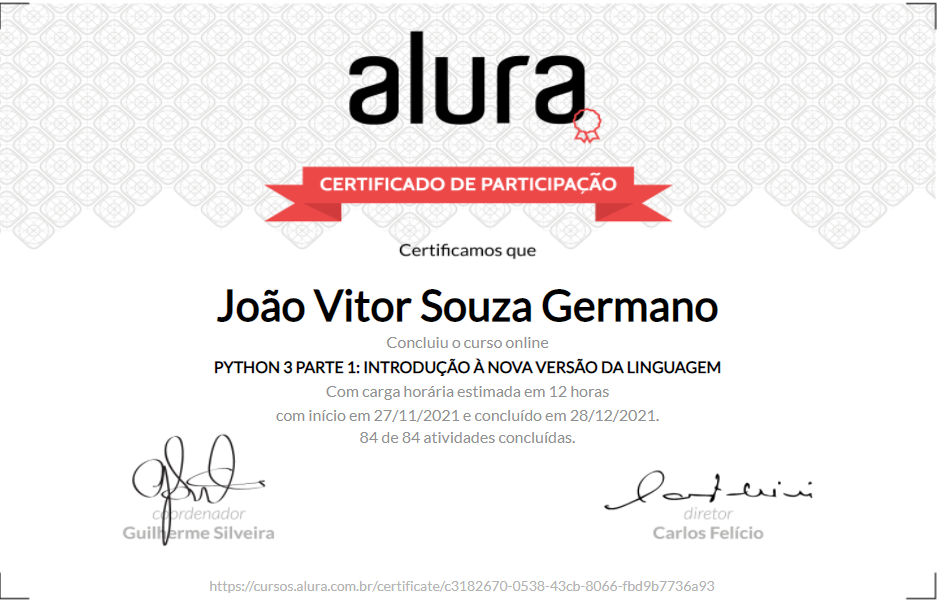
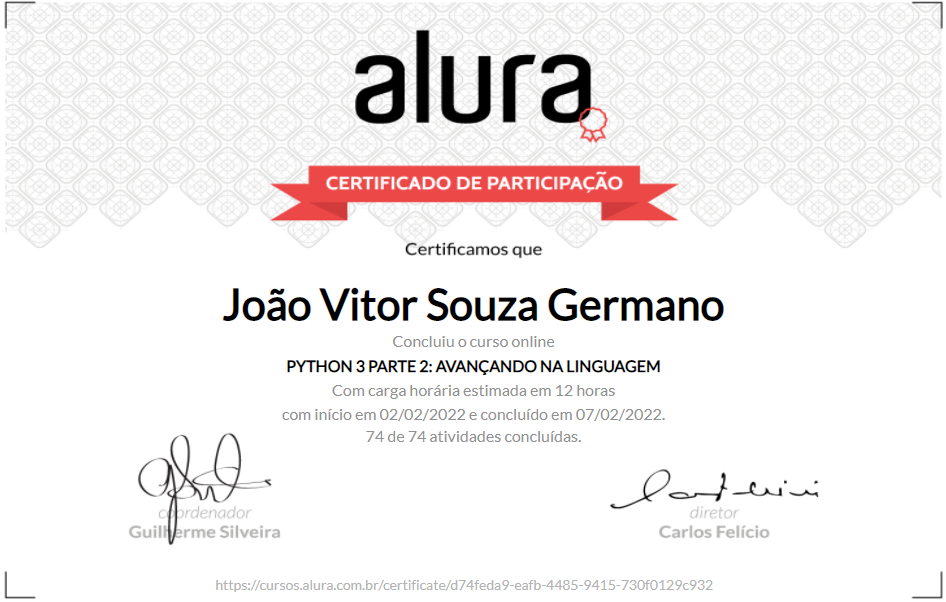
second part of the course

diff --git a/Python/Game/hangman.py b/Python/Game/hangman.py
@@ -1,37 +1,163 @@
 from ctypes.wintypes import WORD
+import random
 
 
 def game():
-    print("*****************************")
-    print("Welcome in Play the Hangman")
-    print("*****************************")
 
-    secret_word = "banana".upper()
-    secret_letters = ["_" for letters in secret_word]
+    display()
+
+    secret_word = jogar()
+    secret_letters = initializes_letters_correct(secret_word)
 
     hanged = False
     right = False
     errors = 0
     while (not hanged and not right):
 
-        kick = input("Whats word?")
-        kick = kick.strip().upper()
+        kick = get_kick()
+
         if(kick in secret_word):
-            index = 0
-            for word in secret_word:
-                if(kick == word):
-                    secret_letters[index] = word
-                index += 1
+
+            mark_kick_correct(kick, secret_letters, secret_word, )
+
         else:
             errors += 1
-        hanged = errors == 6
+            draw_gallows(errors)
+        hanged = errors == 7
         right = "_" not in secret_letters
         print(secret_letters)
 
     if(right):
-        print("Win")
+        get_message_wener()
     else:
-        print("End of the game")
+        get_message_loser(secret_word)
+
+
+def draw_gallows(errors):
+    print("  _______     ")
+    print(" |/      |    ")
+
+    if(errors == 1):
+        print(" |      (_)   ")
+        print(" |            ")
+        print(" |            ")
+        print(" |            ")
+
+    if(errors == 2):
+        print(" |      (_)   ")
+        print(" |      \     ")
+        print(" |            ")
+        print(" |            ")
+
+    if(errors == 3):
+        print(" |      (_)   ")
+        print(" |      \|    ")
+        print(" |            ")
+        print(" |            ")
+
+    if(errors == 4):
+        print(" |      (_)   ")
+        print(" |      \|/   ")
+        print(" |            ")
+        print(" |            ")
+
+    if(errors == 5):
+        print(" |      (_)   ")
+        print(" |      \|/   ")
+        print(" |       |    ")
+        print(" |            ")
+
+    if(errors == 6):
+        print(" |      (_)   ")
+        print(" |      \|/   ")
+        print(" |       |    ")
+        print(" |      /     ")
+
+    if (errors == 7):
+        print(" |      (_)   ")
+        print(" |      \|/   ")
+        print(" |       |    ")
+        print(" |      / \   ")
+
+    print(" |            ")
+    print("_|___         ")
+    print()
+
+
+def get_message_wener():
+    print("Congratulation, you won!")
+    print("       ___________      ")
+    print("      '._==_==_=_.'     ")
+    print("      .-\\:      /-.    ")
+    print("     | (|:.     |) |    ")
+    print("      '-|:.     |-'     ")
+    print("        \\::.    /      ")
+    print("         '::. .'        ")
+    print("           ) (          ")
+    print("         _.' '._        ")
+    print("        '-------'       ")
+
+
+def get_message_loser(secret_word):
+    print("Gosh, you've been hanged!")
+    print("A palavra era {}".format(secret_word))
+    print("    _______________         ")
+    print("   /               \       ")
+    print("  /                 \      ")
+    print("//                   \/\  ")
+    print("\|   XXXX     XXXX   | /   ")
+    print(" |   XXXX     XXXX   |/     ")
+    print(" |   XXX       XXX   |      ")
+    print(" |                   |      ")
+    print(" \__      XXX      __/     ")
+    print("   |\     XXX     /|       ")
+    print("   | |           | |        ")
+    print("   | I I I I I I I |        ")
+    print("   |  I I I I I I  |        ")
+    print("   \_             _/       ")
+    print("     \_         _/         ")
+    print("       \_______/           ")
+
+
+def mark_kick_correct(kick, secret_letters, secret_word, ):
+    index = 0
+    for word in secret_word:
+        if(kick == word):
+            secret_letters[index] = word
+        index += 1
+
+
+def get_kick():
+    kick = input("Whats word?")
+    kick = kick.strip().upper()
+    return kick
+
+
+def initializes_letters_correct(secret_word):
+    return ["_" for letters in secret_word]
+
+
+def display():
+
+    print("*****************************")
+    print("Welcome in Play the Hangman")
+    print("*****************************")
+
+
+def jogar():
+
+    arquivo = open("palavras.txt", "r")
+    palavras = []
+
+    for linha in arquivo:
+        linha = linha.strip()
+        palavras.append(linha)
+
+    arquivo.close()
+    numero = random.randrange(0, len(palavras))
+    palavra_secreta = palavras[numero].upper()
+
+    return palavra_secreta
 
 
 if(__name__ == "__main__"):

diff --git a/README.md b/README.md
@@ -6,6 +6,8 @@
 
 - [x] PYTHON 3 PARTE 1: INTRODUÇÃO À NOVA VERSÃO DA LINGUAGEM [CERTIFIED](https://cursos.alura.com.br/certificate/joaovitorsgermano/python-3-introducao-a-nova-versao-da-linguagem)
 
+- [x] PYTHON 3 PARTE 2: AVANÇANDO NA LINGUAGEM [CERTIFIED](https://cursos.alura.com.br/certificate/joaovitorsgermano/python-3-avancando-na-linguagem)
+
 ## Guess Game
 
 ### Tecnologies
